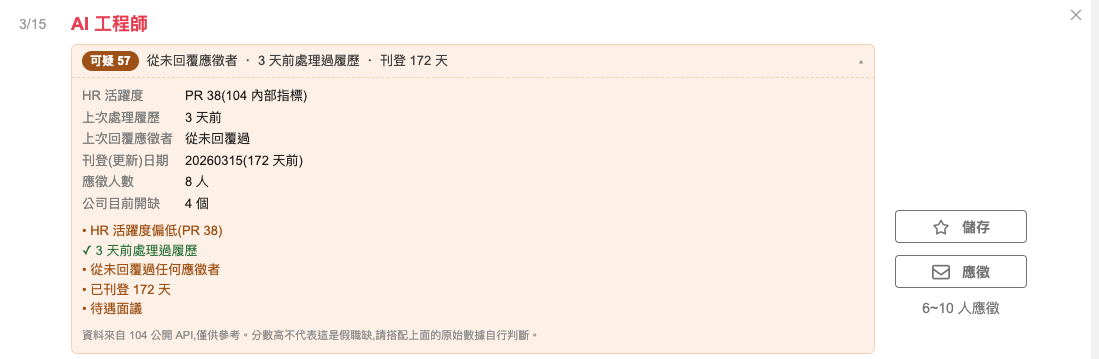
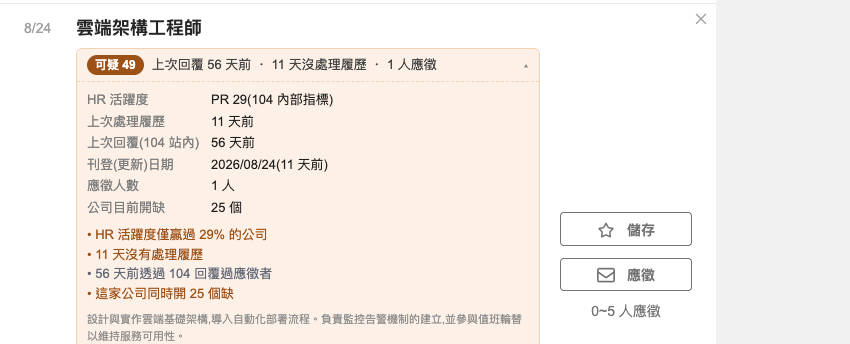
說明頁改成已上架,並清掉最後一處「從未回覆」
Chrome 商店已經上架,說明頁和 README 還停在「送審中」:

- 方式一改成實際的商店連結,標為建議做法(會自動更新)
- 但也講清楚商店版本可能落後 Releases —— 每次改版都要重新送審、審查要數週。
  這個限制是常態,不是暫時的,所以寫成長期成立的說法,不用日後回來改
- 手動安裝從「現在就能用」改成「想搶先用最新版」,保留為長期的備援路徑
- 訂閱區塊從「上架時通知我」改成「有重大更新時通知我」,因為那封信不會再寄了

順帶清掉三處漏網的舊說法:

- docs/index.html 與 README.md 的開頭仍寫著「從來沒有回覆過任何應徵者」——
  這正是 v1.1.0 更正掉的錯誤,其他地方都改了,唯獨最顯眼的第一段沒改到
- src/score.js 的檔頭註解也還留著「從未回覆過應徵者」,而回覆早就不計分了
- PRIVACY.md 與 docs/privacy.html 提到的連結名稱同步更新

說明頁截圖也重換:舊的那張是 v1.0.x 拍的,徽章寫著「從未回覆應徵者」、
數據表寫著「上次回覆應徵者:從未回覆過」、底部還寫著「資料來自 104 公開 API」,
三個錯誤說法一次到齊。新圖沿用商店截圖的規則(不入鏡 104 品牌、不指認真實公司)。

diff --git a/docs/index.html b/docs/index.html
@@ -119,31 +119,35 @@
 <p>
   104 的資料庫其實記錄了每個職缺「上次處理履歷」和「上次回覆應徵者」的時間,
   而且 104 網頁自己載入職缺時就會把這些欄位抓回你的瀏覽器。但 104 只會在頁面上顯示正面的那一半
-  (例如「7 天內處理過履歷」),從不告訴你這家公司<strong>從來沒有回覆過任何應徵者</strong>。
+  (例如「7 天內處理過履歷」),從不告訴你這家公司<strong>近 90 天內一個應徵者都沒回覆過</strong>。
 </p>
 <p>這個外掛把另一半補上。每張職缺卡片會多出一列徽章:</p>
 
 <figure class="shot">
   <img src="screenshot.png" alt="104 職缺頁上的偵測徽章,展開後顯示 HR 活躍度、上次處理履歷、上次回覆應徵者、刊登天數、應徵人數等原始數據" />
   <figcaption>
-    點開徽章會展開完整原始數據。注意右下角 104 自己只顯示「6~10 人應徵」,
-    徽章給的是精確的 <strong>8 人</strong>;而「近 90 天內沒有透過 104 回覆過任何應徵者」
-    這件事,104 從頭到尾不會告訴你。
+    點開徽章會展開完整原始數據。注意右邊 104 自己只給「0~5 人應徵」,
+    徽章給的是精確的 <strong>1 人</strong>;而「上次回覆是 56 天前」「11 天沒處理履歷」
+    這些,104 從頭到尾不會顯示。
   </figcaption>
 </figure>
 
 <h2>安裝</h2>
 
 <div class="card">
-  <h3 style="margin-top:0">方式一:Chrome 線上應用程式商店</h3>
+  <h3 style="margin-top:0">方式一:Chrome 線上應用程式商店(建議)</h3>
+  <p style="margin:0 0 14px">
+    <a class="btn" href="https://chromewebstore.google.com/detail/ollabfbopbnckocijfnahjeaoalbnbej">前往 Chrome 線上應用程式商店</a>
+  </p>
   <p class="note" style="margin-bottom:0">
-    送審中,通過後這裡會放上一鍵安裝的連結,並且能自動更新。
-    在那之前請用下面的方式二。
+    一鍵安裝,而且會自動更新。<br />
+    商店的版本可能會落後 <a href="https://github.com/fansia/104-ghost-job-detector/releases/latest">GitHub Releases</a> 一段時間
+    —— 每次改版都要重新送審,而審查通常要數週。想要最新版,用下面的方式二。
   </p>
 </div>
 
 <div class="card">
-  <h3 style="margin-top:0">方式二:手動安裝(現在就能用)</h3>
+  <h3 style="margin-top:0">方式二:手動安裝(想搶先用最新版)</h3>
   <ol class="steps">
     <li>
       到 <a href="https://github.com/fansia/104-ghost-job-detector/releases/latest">最新版本頁面</a>
@@ -168,12 +172,12 @@
   </p>
 </div>
 
-<h2>上架時通知我</h2>
+<h2>有重大更新時通知我</h2>
 
 <div class="card">
   <p style="margin:0 0 12px">
-    Chrome 線上應用程式商店審核通過時,我寄一封信給你,就這一封。
-    之後只有重大更新才會再寄(大概一年幾次),隨時可以退訂。
+    已經上架了,所以那封「上架通知」不會再寄。之後只有重大更新
+    (例如 104 改版導致外掛失效、或計分方式有大調整)才會寄,大概一年幾次,隨時可以退訂。
   </p>
   <p style="margin:0 0 14px">
     <a class="btn" href="https://ericyensc.substack.com/s/ghost-job-detector">留下 email</a>

diff --git a/src/score.js b/src/score.js
@@ -1,7 +1,7 @@
 /* 幽靈職缺評分。
  *
  * 原則:分數只是排序用的摘要,真正要給求職者看的是「事實」(HR 幾天沒處理履歷、
- * 從未回覆過應徵者、掛了幾天)。誤判把真職缺標成假的,對雙方都是傷害,
+ * 近 90 天內有沒有站內回覆紀錄、掛了幾天)。誤判把真職缺標成假的,對雙方都是傷害,
  * 所以 UI 一律同時呈現原始數據,讓使用者自己判斷。
  */
 var GJD = (function (ns) {

diff --git a/docs/privacy.html b/docs/privacy.html
@@ -151,7 +151,7 @@
 
 <h2>網站上的訂閱表單</h2>
 <p>
-  本專案的說明網站(GitHub Pages)上有一個「上架時通知我」的連結,會把你帶到 Substack。
+  本專案的說明網站(GitHub Pages)上有一個「有重大更新時通知我」的連結,會把你帶到 Substack。
 </p>
 <div class="card">
   <ul class="note" style="margin:0; padding-left:20px">

diff --git a/README.md b/README.md
@@ -9,16 +9,19 @@
 
 ![104 職缺頁上的偵測徽章](docs/screenshot.png)
 
-> 右下角 104 自己只顯示「6~10 人應徵」,徽章給的是精確的 **8 人**;
-> 而「近 90 天內沒有透過 104 回覆過任何應徵者」這件事,104 從頭到尾不會告訴你。
+> 右邊 104 自己只給「0~5 人應徵」,徽章給的是精確的 **1 人**;
+> 而「上次回覆是 56 天前」「11 天沒處理履歷」這些,104 從頭到尾不會顯示。
 
-104 的資料庫其實記錄了每個職缺「上次處理履歷」和「上次回覆應徵者」的時間,而且 104 網頁自己載入職缺時就會把這些欄位抓回瀏覽器——但 104 只會在頁面上顯示正面的那一半(例如「7 天內處理過履歷」),從不告訴你這家公司**從來沒有回覆過任何應徵者**。這個外掛把另一半補上。
+104 的資料庫其實記錄了每個職缺「上次處理履歷」和「上次回覆應徵者」的時間,而且 104 網頁自己載入職缺時就會把這些欄位抓回瀏覽器——但 104 只會在頁面上顯示正面的那一半(例如「7 天內處理過履歷」),從不告訴你這家公司**近 90 天內一個應徵者都沒回覆過**。這個外掛把另一半補上。
 
 ## 安裝
 
-**Chrome 線上應用程式商店:**送審中,通過後會在此附上連結。
+**Chrome 線上應用程式商店(建議):**[前往安裝](https://chromewebstore.google.com/detail/ollabfbopbnckocijfnahjeaoalbnbej) —— 一鍵安裝,自動更新。
 
-**手動安裝(現在就能用):**
+> 商店版本可能落後 [Releases](https://github.com/fansia/104-ghost-job-detector/releases/latest) 一段時間:
+> 每次改版都要重新送審,審查通常要數週。想搶先用最新版就用下面的手動安裝。
+
+**手動安裝(想搶先用最新版):**
 
 1. 到 [Releases](https://github.com/fansia/104-ghost-job-detector/releases/latest) 下載 zip 並解壓縮
    (或直接 clone 本專案)
@@ -30,9 +33,10 @@
 > 手動安裝不會自動更新。有新版時回到 Releases 重新下載,
 > 並在 `chrome://extensions/` 點該外掛的「重新載入」。
 
-### 上架時通知我
+### 有重大更新時通知我
 
-Chrome 商店審核通過時會寄一封信,就這一封。之後只有重大更新才會再寄,隨時可退訂。
+已經上架了,所以那封「上架通知」不會再寄。之後只有重大更新(例如 104 改版導致外掛失效、
+或計分方式有大調整)才會寄,大概一年幾次,隨時可退訂。
 
 👉 [留下 email](https://ericyensc.substack.com/s/ghost-job-detector)
 
